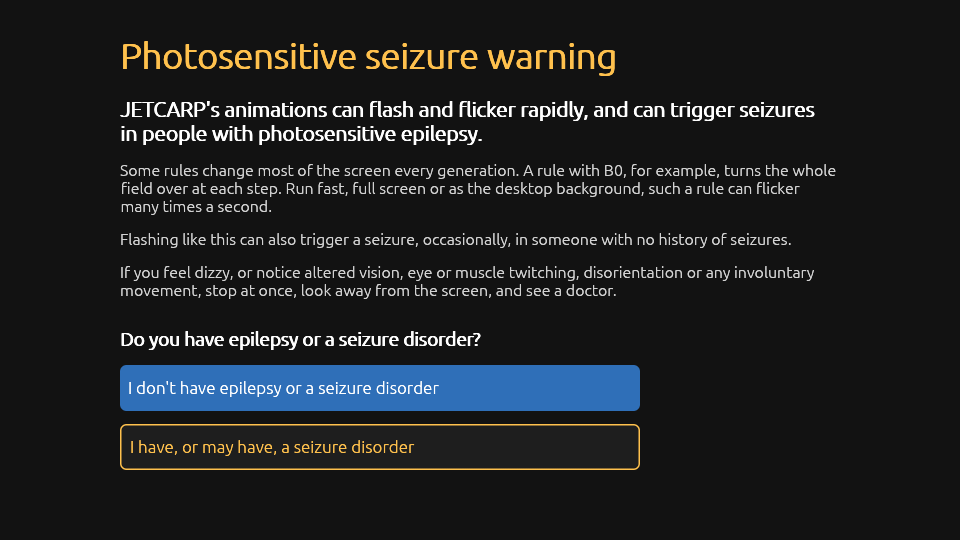
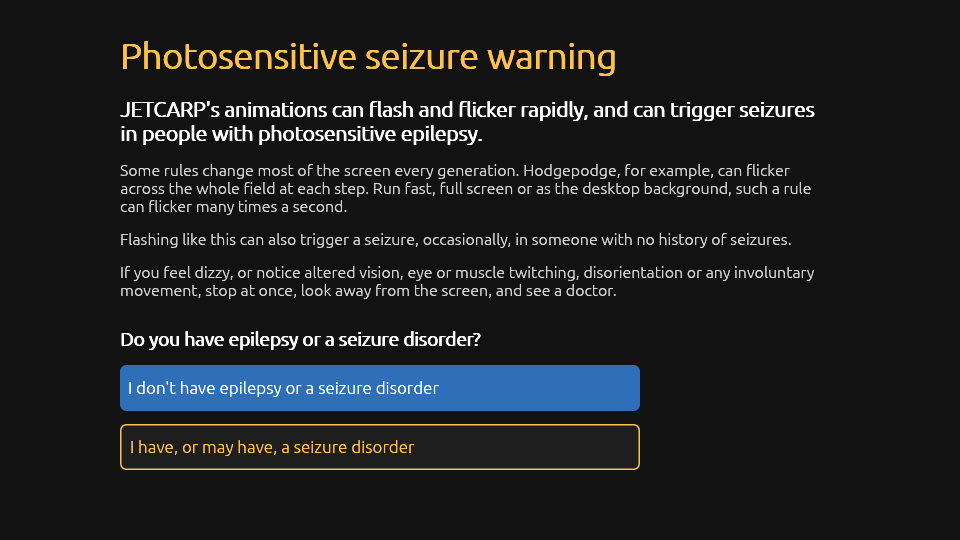
Seizure warning: Hodgepodge is the example, not B0
Since B0 rules are drawn relative to their background (#171), a B0 rule no
longer turns the whole field over on screen, so the warning's example was no
longer true. Hodgepodge, the rule that showed the need for the guard, takes
its place: in the warning itself (the app's screen, the CLI's refusal), the
book's warning page and its MCP copy, and the tests that check the refusal
names the example. The warning's screenshots are redrawn offscreen.

Hodgepodge as Quick Start shows it joins the strobe guard's corpus at 60, 30
and 15 generations a second: its worst second has 8, 6 and 3 transitions, so
the detector fails it, warns, and passes it; with the guard on it never fails.

Changed region(s): [[0.125, 0.2963, 0.875, 0.4148]]

diff --git a/crates/jetcarp-core/src/photosensitivity.rs b/crates/jetcarp-core/src/photosensitivity.rs
@@ -38,8 +38,8 @@ pub const KEY: &str = "JETCARP's animations can flash and flicker rapidly, and c
 
 /// The rest of the warning, a paragraph each.
 pub const DETAILS: [&str; 3] = [
-    "Some rules change most of the screen every generation. A rule with B0, for example, turns \
-     the whole field over at each step. Run fast, full screen or as the desktop background, such \
+    "Some rules change most of the screen every generation. Hodgepodge, for example, can flicker \
+     across the whole field at each step. Run fast, full screen or as the desktop background, such \
      a rule can flicker many times a second.",
     "Flashing like this can also trigger a seizure, occasionally, in someone with no history of \
      seizures.",
@@ -394,7 +394,7 @@ mod tests {
             e.starts_with("JETCARP won't start the background host until"),
             "{e}"
         );
-        assert!(e.contains(KEY) && e.contains("B0"), "{e}");
+        assert!(e.contains(KEY) && e.contains("Hodgepodge"), "{e}");
         assert!(e.contains("--seizure-warning no-disorder"), "{e}");
         // A file that cannot be read is no answer either.
         std::fs::create_dir_all(&d).unwrap();

diff --git a/crates/jetcarp-core/tests/strobe_corpus.rs b/crates/jetcarp-core/tests/strobe_corpus.rs
@@ -66,6 +66,13 @@ const CASES: &[Case] = &[
     // Made to flash.
     case("tron-field", 60.0, 3.0, None, Fail, Pass, SPass),
     case("tron-red", 30.0, 3.0, None, Fail, Fail, SPass),
+    // Hodgepodge as Quick Start shows it (the warning's example): from random states the whole
+    // field swings between healthy and ill every ten generations or so as it settles, so at 60
+    // generations a second its worst second has 8 transitions (four flashes), at 30 it has 6, and
+    // at 15, 3.
+    case("hodgepodge", 60.0, 4.0, None, Fail, Pass, SPass),
+    case("hodgepodge", 30.0, 4.0, None, Warning, Pass, SPass),
+    case("hodgepodge", 15.0, 4.0, None, Pass, Pass, SPass),
     // Tron's rectilinear pattern, grown from the blob, is regular stripes too.
     case("tron-blob", 30.0, 3.0, None, Fail, Pass, SFail),
     case("seeds-soup", 30.0, 3.0, None, Fail, Pass, SPass),

diff --git a/crates/jetcarp/tests/host.rs b/crates/jetcarp/tests/host.rs
@@ -566,7 +566,7 @@ fn nothing_starts_on_screen_before_the_warning_is_accepted() {
             )),
             "{args:?}: {err}"
         );
-        assert!(err.contains("B0"), "the warning itself: {err}");
+        assert!(err.contains("Hodgepodge"), "the warning itself: {err}");
     }
     let o = run(&["host", "status"]);
     assert!(String::from_utf8_lossy(&o.stderr).contains("not running"));

diff --git a/crates/jetcarp-mcp/tests/stdio.rs b/crates/jetcarp-mcp/tests/stdio.rs
@@ -236,7 +236,7 @@ fn a_whole_session_over_stdio() {
         json!({"action": "wallpaper"}),
     ));
     assert!(
-        e.contains("won't start or show scenes in the background host") && e.contains("B0"),
+        e.contains("won't start or show scenes in the background host") && e.contains("Hodgepodge"),
         "{e}"
     );
     assert!(e.contains("photosensitive seizure warning"), "{e}");

diff --git a/crates/jetcarp-mcp/resources/docs/getting-started/photosensitivity.md b/crates/jetcarp-mcp/resources/docs/getting-started/photosensitivity.md
@@ -3,9 +3,9 @@
 **JETCARP's animations can flash and flicker rapidly, and can trigger seizures in people with
 photosensitive epilepsy.**
 
-Some rules change most of the screen every generation. A rule with B0, for example, turns the whole
-field over at each step. Run fast, full screen or as the desktop background, such a rule can flicker
-many times a second.
+Some rules change most of the screen every generation. Hodgepodge, for example, can flicker across
+the whole field at each step. Run fast, full screen or as the desktop background, such a rule can
+flicker many times a second.
 
 Flashing like this can also trigger a seizure, occasionally, in someone with no history of seizures.
 
@@ -116,13 +116,14 @@ For `at_risk` the guard is on whatever the file says. A new answer starts with b
 
 Fast, large changes of brightness are what can trigger a seizure. Guidance on flashing content, such
 as [WCAG 2.3.1](https://www.w3.org/WAI/WCAG22/Understanding/three-flashes-or-below-threshold.html),
-allows no more than three flashes a second over a large part of the screen. A B0 rule run at 30
-generations a second flips the whole field 30 times a second.
+allows no more than three flashes a second over a large part of the screen. Hodgepodge started from
+random states swings the whole field between healthy and ill every ten generations or so as it
+settles: run at 60 generations a second, it flashes about four times a second.
 
 JETCARP's [strobe guard](../guides/strobe-guard.md) watches every frame it draws, and softens, slows
 or pauses a scene before it flashes more than three times a second over a large part of the
 screen, or shows strong regular stripes. It is on for everyone unless turned off in the app.
 
-Slower speeds, smaller windows, low-power pacing (`jetcarp host pacing low-power`) and rules
-without B0 all flash less. None of this, the guard included, makes JETCARP safe for someone with a
+Slower speeds, smaller windows, low-power pacing (`jetcarp host pacing low-power`) and calmer
+rules all flash less. None of this, the guard included, makes JETCARP safe for someone with a
 seizure disorder.

diff --git a/docs/src/getting-started/photosensitivity.md b/docs/src/getting-started/photosensitivity.md
@@ -3,9 +3,9 @@
 **JETCARP's animations can flash and flicker rapidly, and can trigger seizures in people with
 photosensitive epilepsy.**
 
-Some rules change most of the screen every generation. A rule with B0, for example, turns the whole
-field over at each step. Run fast, full screen or as the desktop background, such a rule can flicker
-many times a second.
+Some rules change most of the screen every generation. Hodgepodge, for example, can flicker across
+the whole field at each step. Run fast, full screen or as the desktop background, such a rule can
+flicker many times a second.
 
 Flashing like this can also trigger a seizure, occasionally, in someone with no history of seizures.
 
@@ -116,13 +116,14 @@ For `at_risk` the guard is on whatever the file says. A new answer starts with b
 
 Fast, large changes of brightness are what can trigger a seizure. Guidance on flashing content, such
 as [WCAG 2.3.1](https://www.w3.org/WAI/WCAG22/Understanding/three-flashes-or-below-threshold.html),
-allows no more than three flashes a second over a large part of the screen. A B0 rule run at 30
-generations a second flips the whole field 30 times a second.
+allows no more than three flashes a second over a large part of the screen. Hodgepodge started from
+random states swings the whole field between healthy and ill every ten generations or so as it
+settles: run at 60 generations a second, it flashes about four times a second.
 
 JETCARP's [strobe guard](../guides/strobe-guard.md) watches every frame it draws, and softens, slows
 or pauses a scene before it flashes more than three times a second over a large part of the
 screen, or shows strong regular stripes. It is on for everyone unless turned off in the app.
 
-Slower speeds, smaller windows, low-power pacing (`jetcarp host pacing low-power`) and rules
-without B0 all flash less. None of this, the guard included, makes JETCARP safe for someone with a
+Slower speeds, smaller windows, low-power pacing (`jetcarp host pacing low-power`) and calmer
+rules all flash less. None of this, the guard included, makes JETCARP safe for someone with a
 seizure disorder.

diff --git a/crates/jetcarp-mcp/resources/docs/about/testing.md b/crates/jetcarp-mcp/resources/docs/about/testing.md
@@ -64,9 +64,10 @@ with the guard already on.
   frames match the processor's, to the texture unit's sRGB decoding.
 - **The corpus** (`docs/scenes/strobe/`): scenes made to flash (a Margolus Tron field, which flips
   every generation, in grey and in a saturated red-orange; Tron from a blob, whose rectilinear
-  growth is regular stripes as well; a Seeds soup), the Tron field just under and just over the
-  rate (six and seven generations a second, and six for long enough to be the extended failure)
-  and the area (shown 112 and 128 pixels across), striped scenes (still stripes, a reversing
+  growth is regular stripes as well; a Seeds soup; Hodgepodge as Quick Start shows it, the seizure
+  warning's example, which fails at 60 generations a second, is a warning at 30 and passes at 15),
+  the Tron field just under and just over the rate (six and seven generations a second, and six
+  for long enough to be the extended failure) and the area (shown 112 and 128 pixels across), striped scenes (still stripes, a reversing
   checkerboard of squares smaller than a tile) and ordinary scenes (a Life soup, Brian's Brain, a
   maze, Greenberg-Hastings waves). Each is drawn frame by frame on the processor, at a fixed speed,
   at 320 by 240 and 60 frames a second, and JETCARP's verdict on each is pinned

diff --git a/docs/src/about/testing.md b/docs/src/about/testing.md
@@ -64,9 +64,10 @@ with the guard already on.
   frames match the processor's, to the texture unit's sRGB decoding.
 - **The corpus** (`docs/scenes/strobe/`): scenes made to flash (a Margolus Tron field, which flips
   every generation, in grey and in a saturated red-orange; Tron from a blob, whose rectilinear
-  growth is regular stripes as well; a Seeds soup), the Tron field just under and just over the
-  rate (six and seven generations a second, and six for long enough to be the extended failure)
-  and the area (shown 112 and 128 pixels across), striped scenes (still stripes, a reversing
+  growth is regular stripes as well; a Seeds soup; Hodgepodge as Quick Start shows it, the seizure
+  warning's example, which fails at 60 generations a second, is a warning at 30 and passes at 15),
+  the Tron field just under and just over the rate (six and seven generations a second, and six
+  for long enough to be the extended failure) and the area (shown 112 and 128 pixels across), striped scenes (still stripes, a reversing
   checkerboard of squares smaller than a tile) and ordinary scenes (a Life soup, Brian's Brain, a
   maze, Greenberg-Hastings waves). Each is drawn frame by frame on the processor, at a fixed speed,
   at 320 by 240 and 60 frames a second, and JETCARP's verdict on each is pinned

diff --git a/crates/jetcarp-mcp/resources/docs/about/changelog.md b/crates/jetcarp-mcp/resources/docs/about/changelog.md
@@ -49,6 +49,13 @@ that will declare them stable.
 
 ### Fixed
 
+- **The photosensitive seizure warning's example is Hodgepodge, not B0.** Since B0 rules are drawn
+  relative to their background ([#171](https://github.com/jprodgers/jetcarp/issues/171)), a B0
+  rule no longer turns the whole field over at each step on screen. The warning now gives
+  Hodgepodge, which can flicker across the whole field at each step, and the book's warning page
+  follows it: Hodgepodge as Quick Start shows it, run at 60 generations a second, flashes about
+  four times a second as it settles, and the strobe guard catches it (a scene in its test corpus).
+  ([Photosensitive seizure warning](../getting-started/photosensitivity.md))
 - **Programs starting together no longer fail with "database is locked" on a new library.** When
   the app, the desktop host, the MCP server or a search job opened a library that did not exist
   yet at the same moment as another, one of them could be refused at once, although each waits

diff --git a/docs/src/about/changelog.md b/docs/src/about/changelog.md
@@ -49,6 +49,13 @@ that will declare them stable.
 
 ### Fixed
 
+- **The photosensitive seizure warning's example is Hodgepodge, not B0.** Since B0 rules are drawn
+  relative to their background ([#171](https://github.com/jprodgers/jetcarp/issues/171)), a B0
+  rule no longer turns the whole field over at each step on screen. The warning now gives
+  Hodgepodge, which can flicker across the whole field at each step, and the book's warning page
+  follows it: Hodgepodge as Quick Start shows it, run at 60 generations a second, flashes about
+  four times a second as it settles, and the strobe guard catches it (a scene in its test corpus).
+  ([Photosensitive seizure warning](../getting-started/photosensitivity.md))
 - **Programs starting together no longer fail with "database is locked" on a new library.** When
   the app, the desktop host, the MCP server or a search job opened a library that did not exist
   yet at the same moment as another, one of them could be refused at once, although each waits
